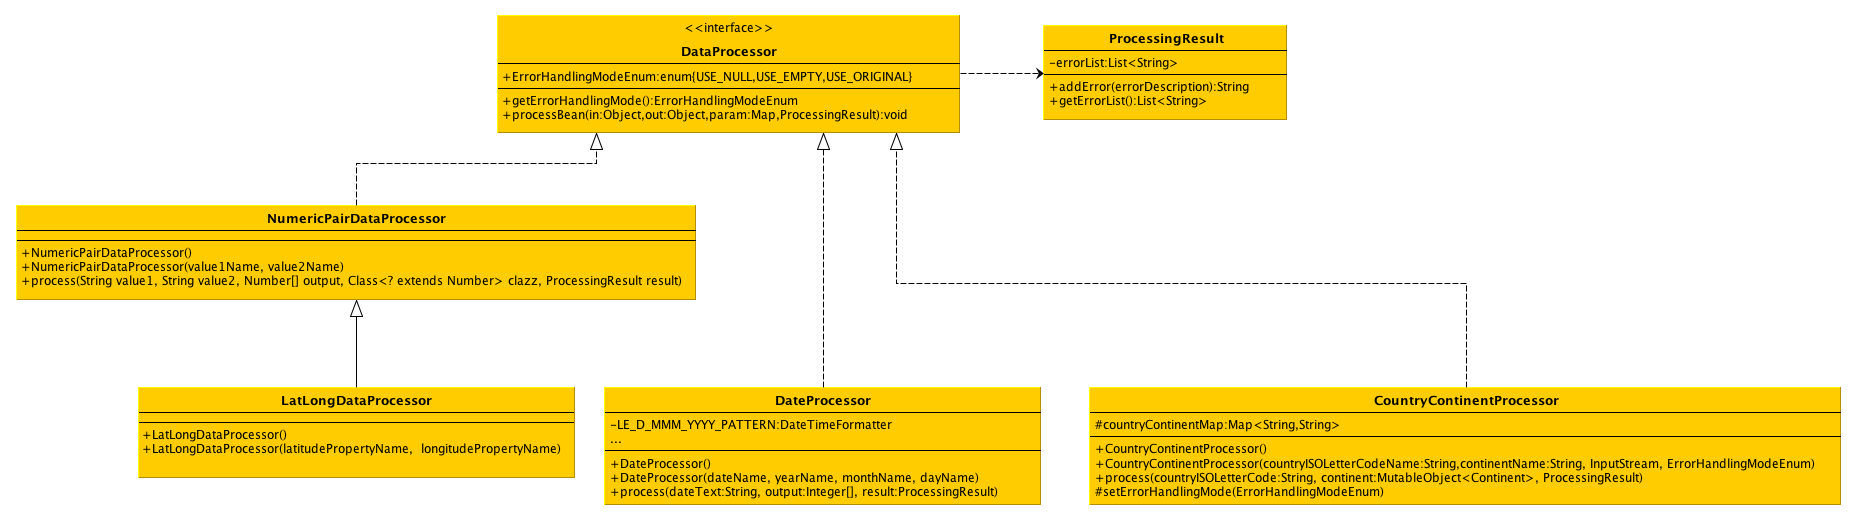
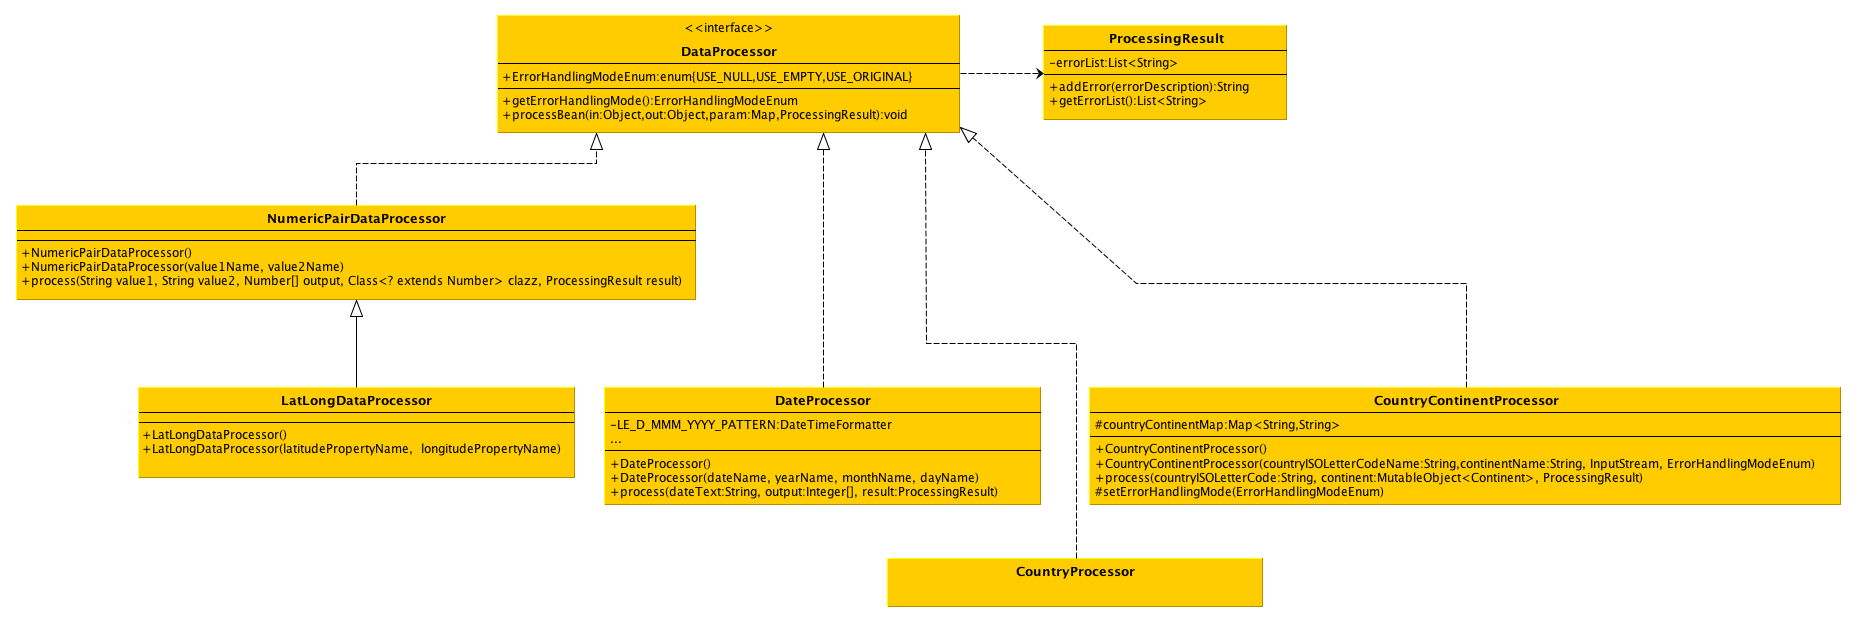
updated doc

diff --git a/src/main/java/net/canadensys/processor/geography/CountryProcessor.java b/src/main/java/net/canadensys/processor/geography/CountryProcessor.java
@@ -15,7 +15,7 @@ import org.gbif.common.parsers.ParseResult.CONFIDENCE;
 import org.gbif.common.parsers.countryname.CountryNameParser;
 
 /**
- * Country processor to handle country data.
+ * Country processor to handle country names.
  * Parsing a country string into a controlled vocabulary (org.gbif.api.model.vocabulary.Country).
  * You should reuse the same instance to save resources.
  * @author canadensys

diff --git a/README.md b/README.md
@@ -9,15 +9,20 @@ Note
 ----
 This library is still young and under active development. Some parts may change based on the reviews, comments and usage. Do not hesitate to enter an [Issue](https://github.com/Canadensys/narwhal-processor/issues) if you have any problems or questions.
 
-Documentation
--------------
+Goal
+----
+The goal of this library is to provide a set of processing functions trough a common Java interface that supports [JavaBeans](http://en.wikipedia.org/wiki/JavaBeans). This will ease the integration of the library in various biodiversity projects by providing a uniform way to access processing functions.
+
+Documentation and Usage
+-----------------------
 See [wiki](https://github.com/Canadensys/narwhal-processor/wiki)
 
 Dependencies
 ------------
-[JSR-310](http://threeten.sourceforge.net/) 0.6.3
+ * [GBIF Parsers](http://code.google.com/p/gbif-common-resources/) 0.2 (included by Maven)
+ * [JSR-310](http://threeten.sourceforge.net/) 0.6.3
 
-To include it into your Maven local repo
+To include JSR-310 into your Maven local repo
 ```
 mvn install:install-file -DgroupId=threeten -DartifactId=threeten -Dversion=0.6.3 -Dpackaging=jar -Dfile=lib/threeten/threeten/0.6.3/threeten-0.6.3.jar
 ```
